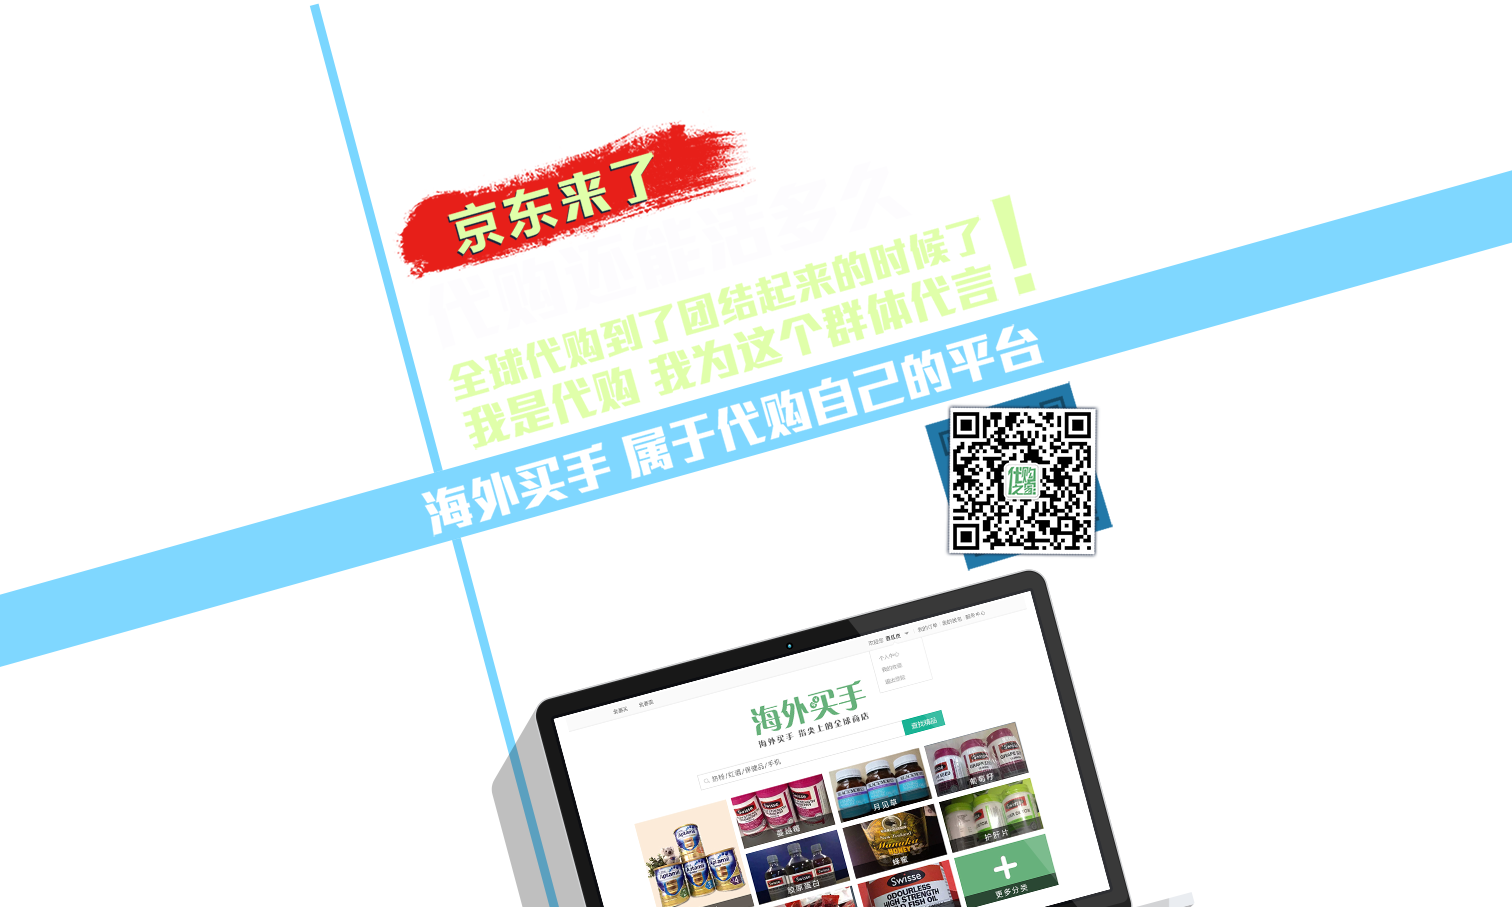
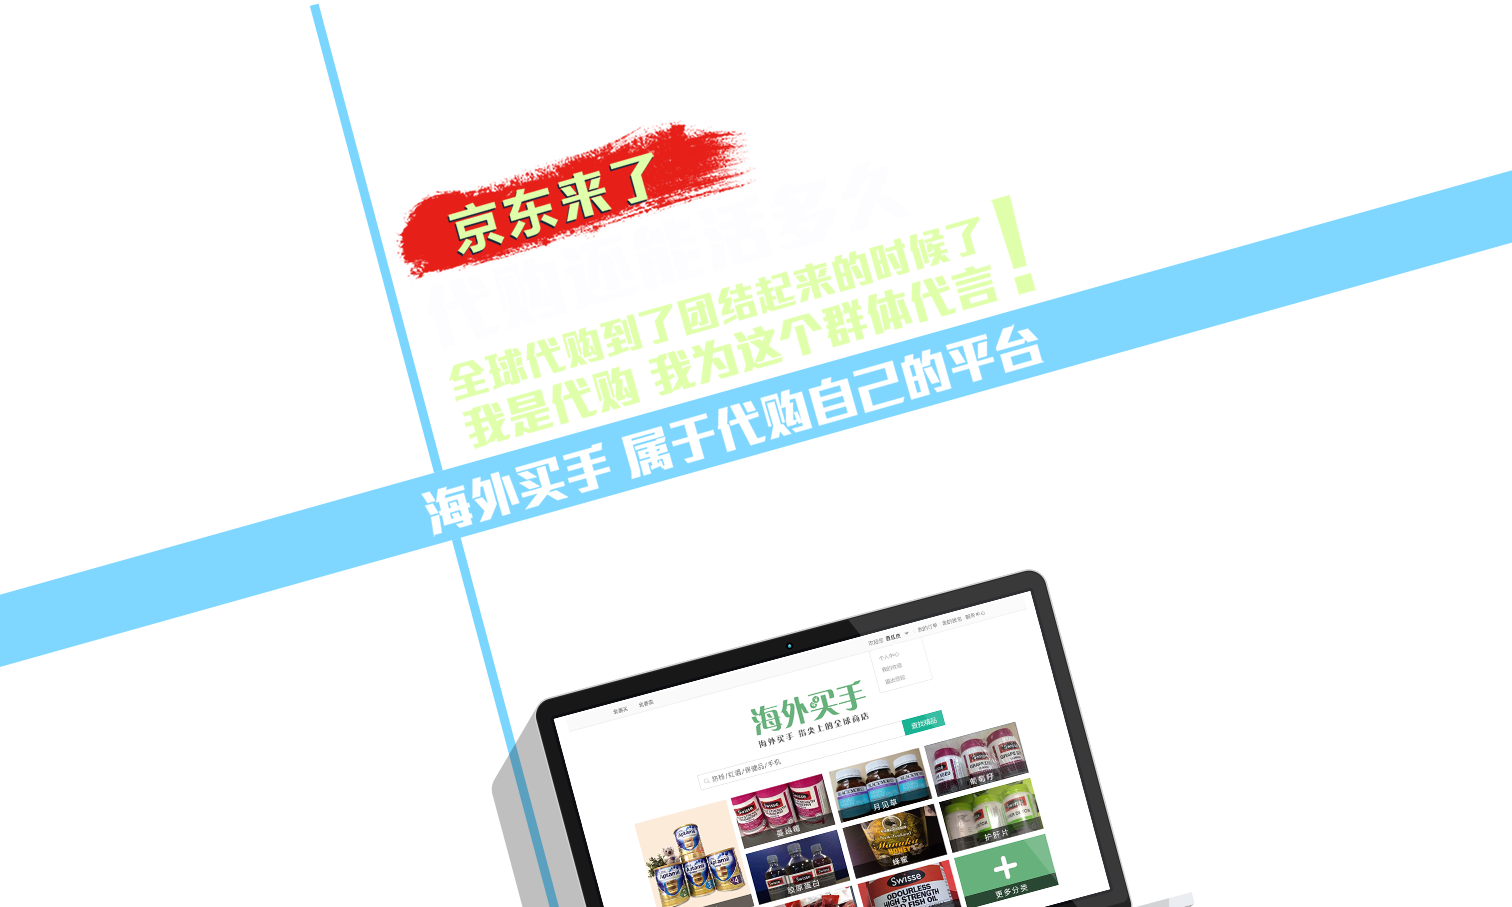
new

Changed region(s): [[0.5906, 0.4013, 0.746, 0.6483]]

diff --git a/www/index.html b/www/index.html
@@ -61,21 +61,49 @@ dfn,em,i {
     font-style:normal; 
 }
 
-html,body{
-    min-width: 1024px;
-}
-
 body{
-	background: #14223c;
+    background: #14223c;
 }
 
 .wrapper{
-	background: #14223c url(txt.png) no-repeat center center;
+    position: relative;
+    background: #14223c url(txt.png) no-repeat center center;
+    background-size: 100% auto;
+}
+.qrimg{
+    width:200px;
+    height: 200px;
+    background: url(qr.png) no-repeat center center;
+    background-size: 100% auto;
+    position:absolute;
+    right:20px;
+    top:300px;
+}
+
+@media (max-width: 1024px){
+    .wrapper{
+        background-size: auto 100%;
+    }
+}
+
+@media (max-height: 635px){
+    .wrapper{
+        background: #14223c url(txt.png) no-repeat bottom center;
+        background-size: auto 600px;
+    }
+    .qrimg{
+        top:20px;
+        right:20px;
+    }
 }
 </style>
+<script type="text/javascript">
+    //alert(window.screen.width+ " * "+window.screen.height);
+</script>
 </head>
 <body class="wrapper">
 
+<div class="qrimg"></div>
 
 </body>
 </html>
